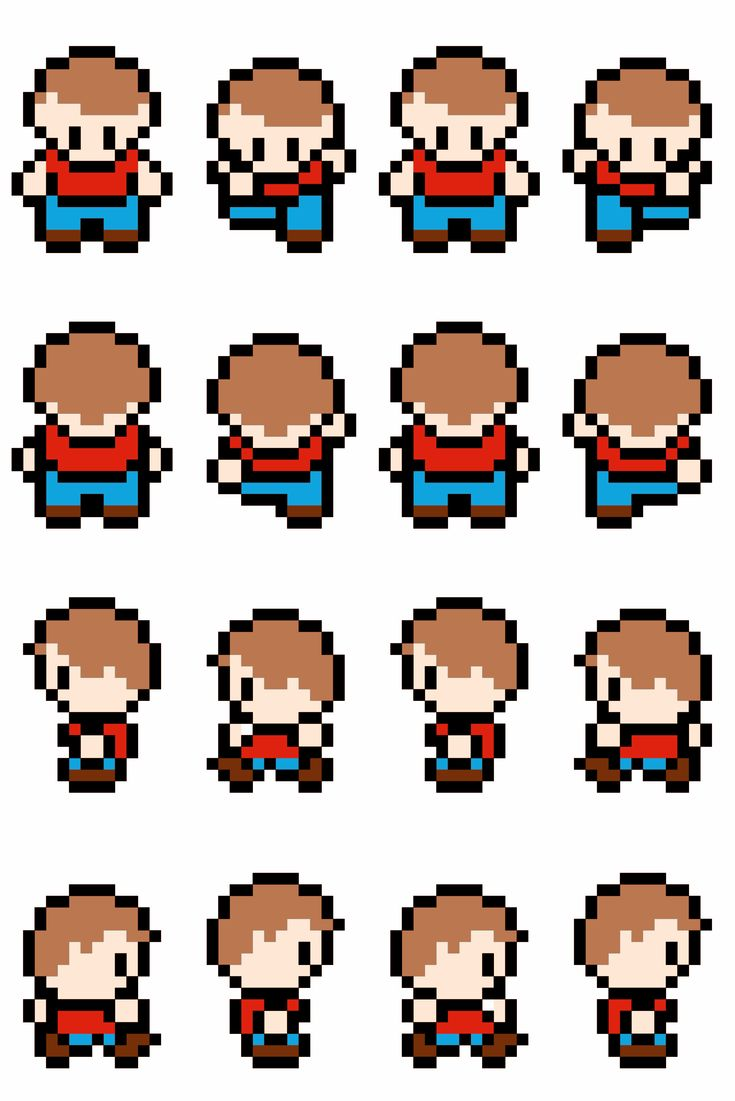
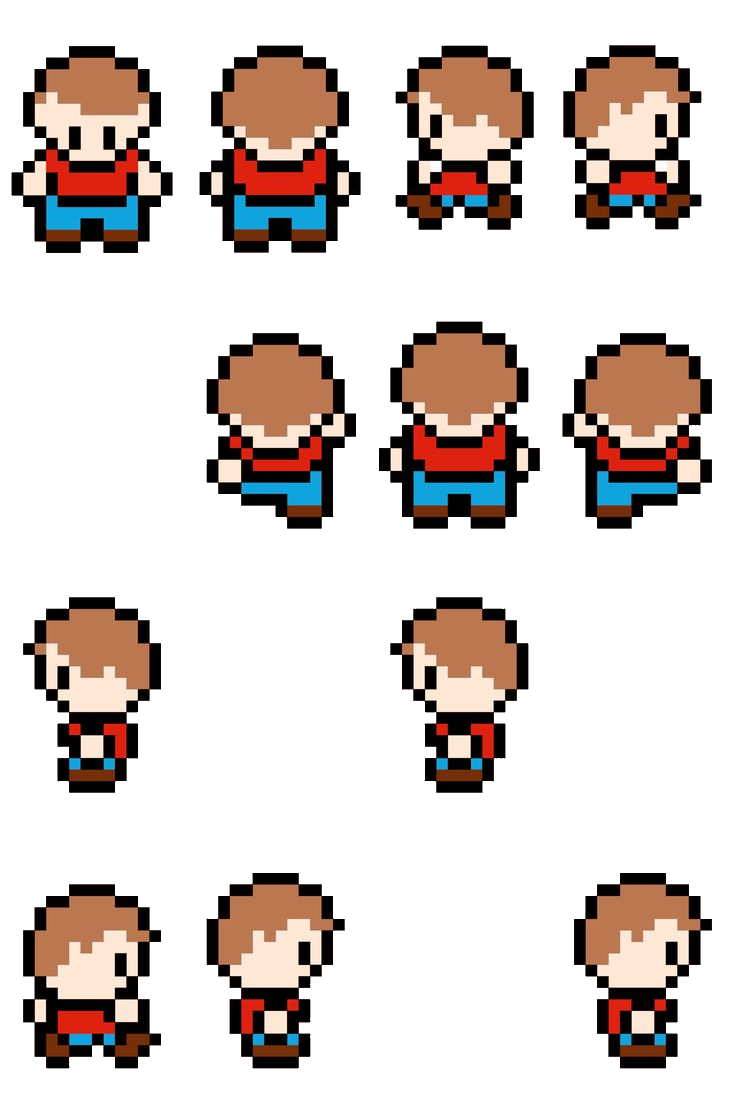
character spreadsheet

diff --git a/script.js b/script.js
@@ -156,11 +156,11 @@ function drawCh(){
   character.height=484*scale;
   ctx2.scale(scale,scale);
   
-  url = "img/ch.png";
+  url = "img/ch2.png";
   img = document.createElement("img");
   img.setAttribute('src', url);
   img.onload = function() {
-    ctx2.drawImage(img, 228, 2, chW, chH);
+    ctx2.drawImage(img, 8, 45, 170, 220, 228, 2, chW, chH);
   };
 }
 document.addEventListener("DOMContentLoaded", (event) => {
@@ -177,7 +177,7 @@ function moveCh(){
     y=2;
     x=228;
     m=16;
-    ctx2.drawImage(img, x, y, chW, chH);
+    ctx2.drawImage(img, 8, 45, 170, 220, x, y, chW, chH);
 }
 document.addEventListener("keydown", (e) => {
   
@@ -199,7 +199,8 @@ document.addEventListener("keydown", (e) => {
             if(arr[(x-4)/m*2+1][(y-2)/m*2+1-1]==0){
               ctx2.clearRect(0,0, canvas.width, canvas.height);
               y=y-m;
-                ctx2.drawImage(img, x, y, chW, chH);
+                //img, tocka, velikost slike ki jo uzimasod tocke , pozicija na canvasu, velikost slike(ch)
+                ctx2.drawImage(img, 196, 45, 170, 220, x, y, chW, chH);
                 //console.log(x+" "+y);
               }
           }
@@ -212,7 +213,7 @@ document.addEventListener("keydown", (e) => {
             if(arr[(x-4)/m*2+1][(y-2)/m*2+1+1]==0){
               ctx2.clearRect(0,0, canvas.width, canvas.height);
               y=y+m;
-                ctx2.drawImage(img, x, y, chW, chH);
+                ctx2.drawImage(img, 8, 45, 170, 220, x, y, chW, chH);
                 //console.log(x+" "+y);
               }
             if(x==244 && y==482){
@@ -234,7 +235,7 @@ document.addEventListener("keydown", (e) => {
             if(arr[(x-4)/m*2+1-1][(y-2)/m*2+1]==0){
               ctx2.clearRect(0,0, canvas.width, canvas.height);
               x=x-m;
-                ctx2.drawImage(img, x, y, chW, 16);
+                ctx2.drawImage(img, 390, 45, 145, 187, x, y, chW, chH);
                 //console.log(x+" "+y);
               }
             
@@ -247,7 +248,7 @@ document.addEventListener("keydown", (e) => {
             if(arr[(x-4)/m*2+1+1][(y-2)/m*2+1]==0){
               ctx2.clearRect(0,0, canvas.width, canvas.height);
               x=x+m;
-                ctx2.drawImage(img, x, y, chW, chH);
+                ctx2.drawImage(img, 560, 45, 145, 187, x, y, chW, chH);
                 //console.log(x+" "+y);
               }
             

diff --git a/style.css b/style.css
@@ -5,8 +5,8 @@ html, body{
     padding: 0%;
 }
 body{
-    background: url(img/bg.avif);
-    background-size: 100vw;
+    background: url(img/bg.avif) no-repeat;
+    background-size: cover;
 }
 .bo{
     width: 100%;
